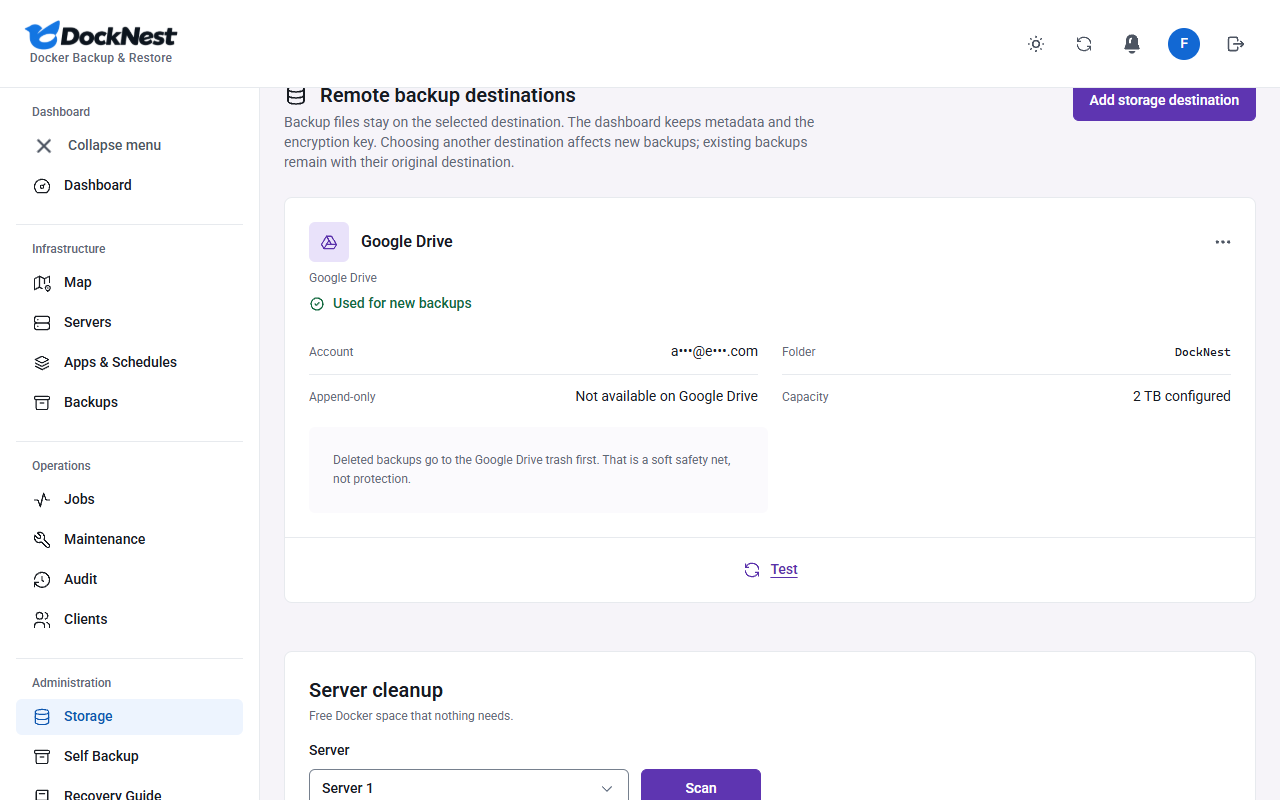
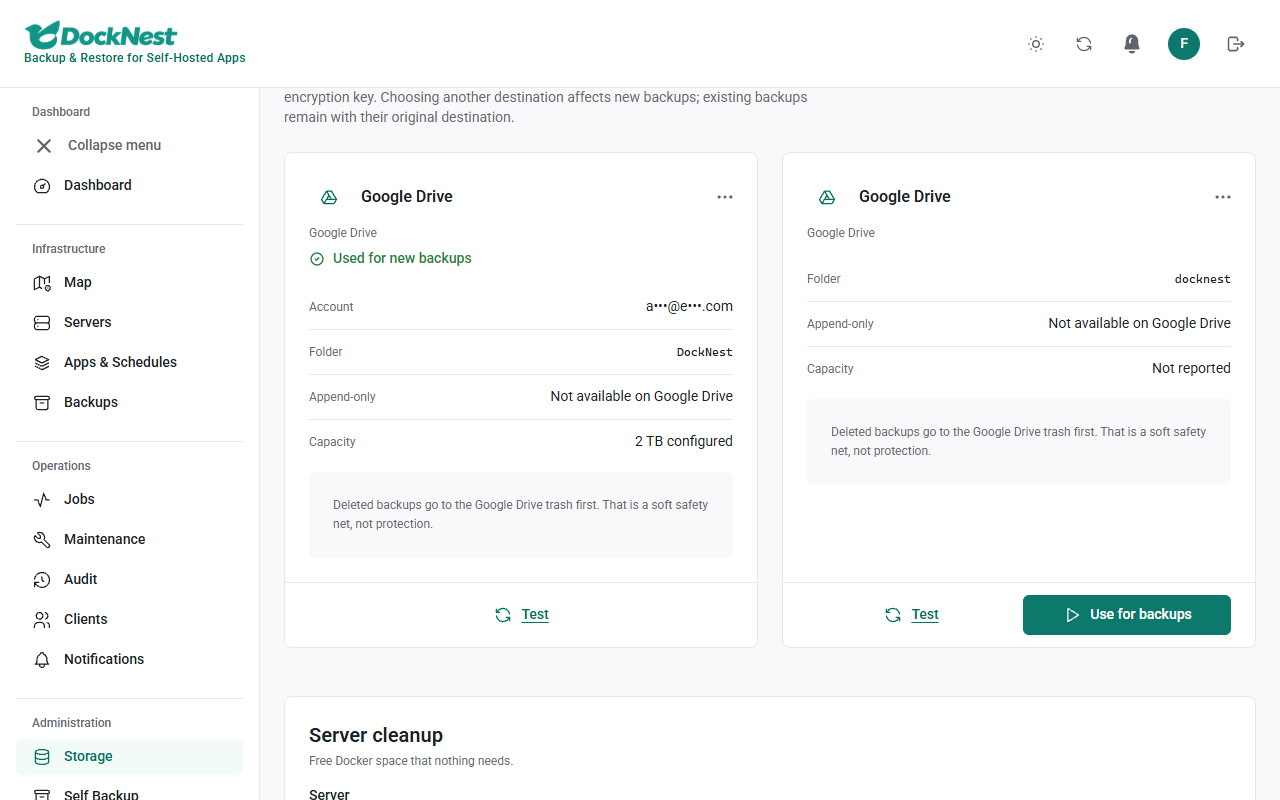
docs: regenerate the five 3.0.0 screenshots in Teal

diff --git a/scripts/readme-screenshots.js b/scripts/readme-screenshots.js
@@ -33,13 +33,14 @@ const selfBackup={active:null,lastAttempt:{status:'completed'},destination:{name
  latest:{finishedAt:time(5),size:3.4*1024**2,release:'3.0.0',checksum:'9f2c'.repeat(16),storage:{mode:'sftp',name:'Backup vault'}},
  settings:{enabled:true,schedule:'0 3 * * *',timezone:'UTC',hasPassphrase:true,nextRun:new Date(now+19*3600000).toISOString()}};
 const meta={version:'v2.4.0',publishedAt:iso,releaseUrl:'https://github.com/DahanItamar/DockNest/releases/latest',highlights:{security:false,features:2,improvements:4},highlightsVerified:true,compatibility:{minimumMet:true,updatesDatabase:'yes',fromSchema:5,toSchema:5},downtime:{seconds:240,basis:'last-run'},pauses:['Backups and restores'],notesMarkdown:'# Release notes\n\n## New features\n- Problem reports without personal data.\n- Clearer failure explanations.\n\n## Improvements\n- Faster job list.\n',notesSource:'verified'};
-async function open({width=1440,height=1000,scale=2,theme='light',signedIn=true}={}){
+async function open({width=1440,height=1000,scale=2,theme='light',signedIn=true,extra=null,pageState=state}={}){
  const context=await browser.newContext({viewport:{width,height},deviceScaleFactor:scale,reducedMotion:'reduce',colorScheme:theme});
  await context.addInitScript(t=>{try{localStorage.setItem('docknest-theme',t)}catch{}},theme);
  await context.route('**/api/**',route=>{
   const path=new URL(route.request().url()).pathname;
-  const json=path==='/api/auth/status'&&!signedIn?{authenticated:false,setupRequired:false,csrfToken:'',serverTime:now}:path==='/api/self-backup'?selfBackup:path==='/api/auth/status'?{authenticated:true,setupRequired:false,csrfToken:'demo-fixture',user:{id:'demo-admin',name:'Administrator',role:'admin'},serverTime:now,idleExpiresAt:now+1800000,absoluteExpiresAt:now+28800000}
-  :path==='/api/state'?{...state,update:{available:'v2.4.0'}}:path==='/api/storage-targets'?storageTargets:path==='/api/alerts'?alerts:path==='/api/updates'?updates:path==='/api/version'?{version:'2.3.0',schemaVersion:5}
+  const over=extra?extra(path):undefined;
+  const json=over!==undefined?over:path==='/api/auth/status'&&!signedIn?{authenticated:false,setupRequired:false,csrfToken:'',serverTime:now}:path==='/api/self-backup'?selfBackup:path==='/api/auth/status'?{authenticated:true,setupRequired:false,csrfToken:'demo-fixture',user:{id:'demo-admin',name:'Administrator',role:'admin'},serverTime:now,idleExpiresAt:now+1800000,absoluteExpiresAt:now+28800000}
+  :path==='/api/state'?{...pageState,update:{available:'v2.4.0'}}:path==='/api/storage-targets'?storageTargets:path==='/api/alerts'?alerts:path==='/api/updates'?updates:path==='/api/version'?{version:'2.3.0',schemaVersion:5}
   :path.startsWith('/api/updates/releases/')?meta:path==='/api/updates/history'?{items:[{id:'r1',version:'v2.3.0',at:time(200),outcome:'succeeded',source:'in-app'},{id:null,version:'v2.2.0',at:time(900),outcome:'succeeded',source:'cli'}],next:null}
   :path==='/api/updates/progress'?{active:false,phase:null,to:null,state:null,stale:false,updatedAt:null,events:[]}:path==='/api/updates/whats-new'?{show:false}:{};
   return route.fulfill({json});
@@ -84,5 +85,20 @@ try{
  // Sign-in page with a few typed characters (never a real password) so the dots show.
  ({context,page}=await open({signedIn:false}));await page.locator('input[name=password]').pressSequentially('0000000000',{delay:20});await page.waitForTimeout(600);await settle(page);await shot(page,'login.png');await context.close();
  ({context,page}=await open({width:402,height:874,scale:2}));await settle(page);await shot(page,'dashboard-mobile.png');await context.close();
+
+ // TrueNAS SCALE server on the Map and a Podman rootless app on Apps (1280x800, 1x, like the other 3.0.0 views).
+ const truenas={id:'demo-nas-1',name:'Storage NAS',note:'',host:'192.0.2.40',username:'admin',port:22,hostKey:'12'.repeat(32),status:'connected',capabilities:{nas:{kind:'truenas',version:'25.04.2'},helperRuntime:'container',stagingBase:'/mnt/tank/docknest',sshIdentity:'sudo',freeBytes:1.4e12,dockerVersion:'27.3.1',engines:[{engine:'docker',rootless:false,version:'27.3.1',cgroupDelegated:true}]}};
+ const nasChecks=[{id:'nas-version',status:'ok',message:'truenas 25.04.2'},{id:'identity',status:'ok',message:'Connected as admin with passwordless sudo.'},{id:'runtime',status:'ok',message:'The helper runtime image is loaded.'},{id:'staging',status:'ok',message:'/mnt/tank/docknest is on persistent storage.',freeBytes:1.4e12},{id:'docker',status:'ok',message:'Docker 27.3.1'}];
+ const nasSite={id:'demo-nas-site',name:'Photo Library',serverId:truenas.id,config:{containers:['photos','photos-db'],domains:[]}};
+ const nasState={...state,servers:[truenas],sites:[nasSite],policies:[{siteId:nasSite.id,enabled:true,schedule:'0 2 * * *',timezone:'UTC',retention:7}],backups:[],jobs:[]};
+ ({context,page}=await open({width:1280,height:800,scale:1,pageState:nasState,extra:p=>p==='/api/servers/'+truenas.id+'/nas'?{nas:truenas.capabilities.nas,identity:'sudo',helperRuntime:'container',stagingBase:truenas.capabilities.stagingBase,ready:true,checks:nasChecks}:undefined}));
+ await go(page,'Map');await page.getByRole('heading',{level:1,name:'Map'}).waitFor();
+ await page.locator('[data-node="server:'+truenas.id+'"]').click();await page.getByText('Helper runtime: Container (no Python on host)').waitFor();await settle(page);await shot(page,'nas-server.png');await context.close();
+ const rootless={engine:'podman',rootless:true,user:'svc',uid:1002};
+ const podSites=[{id:'demo-pod-1',name:'Demo Shop',serverId:servers[0].id,config:{containers:['shop-web'],domains:[]}},{id:'demo-pod-2',name:'Team Portal',serverId:servers[0].id,config:{containers:['portal-app'],runtime:rootless,domains:[]}}];
+ const podServer={...servers[0],capabilities:{...servers[0].capabilities,engines:[{engine:'docker',rootless:false,version:'28.0.1',cgroupDelegated:true},{...rootless,version:'5.2.1',cgroupDelegated:true}]}};
+ const podState={...state,servers:[podServer],sites:podSites,policies:podSites.map(s=>({siteId:s.id,enabled:true,schedule:'0 2 * * *',timezone:'UTC',retention:7})),backups:[],jobs:[]};
+ ({context,page}=await open({width:1280,height:800,scale:1,pageState:podState}));
+ await go(page,'Apps & Schedules');await page.locator('.site-card',{hasText:'Team Portal'}).getByText('Podman rootless, user svc').waitFor();await settle(page);await shot(page,'podman-app.png');await context.close();
  console.log('Documentation screenshots captured with synthetic data only.');
 }finally{await browser.close();}

diff --git a/docs/media/README.md b/docs/media/README.md
@@ -14,3 +14,5 @@ Generated by `npm run docs:screenshots` (`scripts/readme-screenshots.js`) agains
 | `update-center.png` | Update Center with fixture update-check, release and host updater responses (an example update, not a statement about any release). |
 
 `logo-blue.png`, `logo-purple.png` and `social-preview.png` are brand assets, not screenshots.
+
+`nas-server.png` and `podman-app.png` come from the same script (1280 x 800, synthetic TrueNAS SCALE and Podman fixtures). `recovery-time.png`, `client-report.png` and `cloud-drives.png` are the R1, C3 and D3 pictures written by `SHOTS_DIR=<dir> node scripts/clients-drives-browser.js` (real server, fake rclone, fictional data), light theme, 1280 px.
